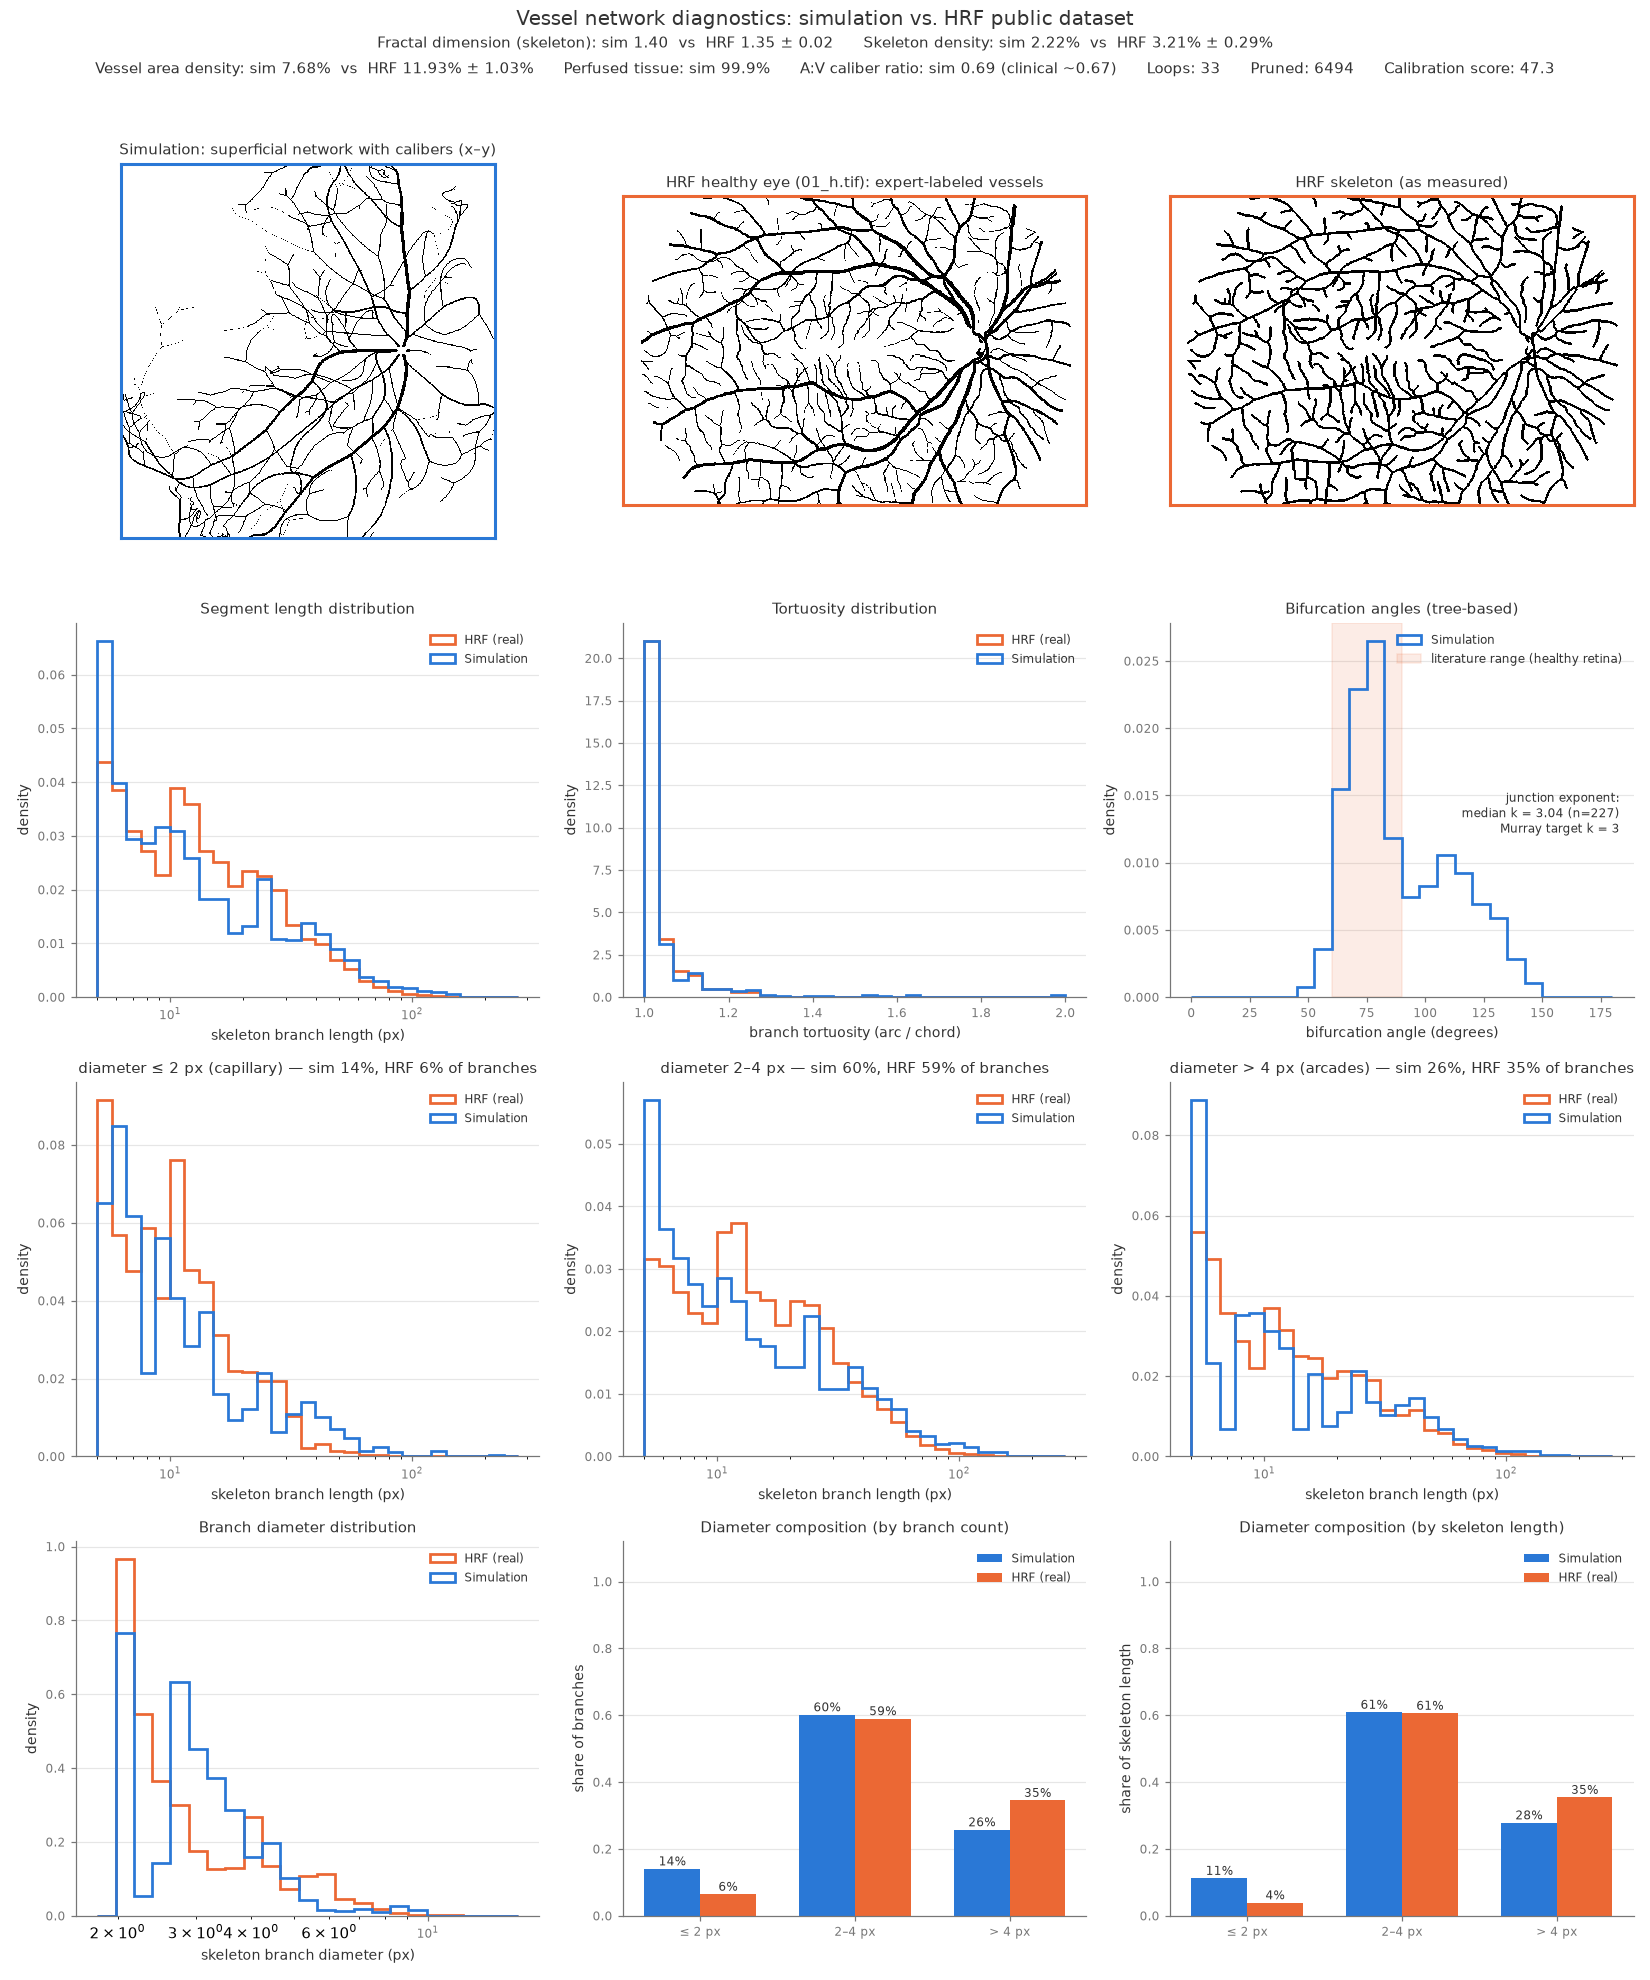
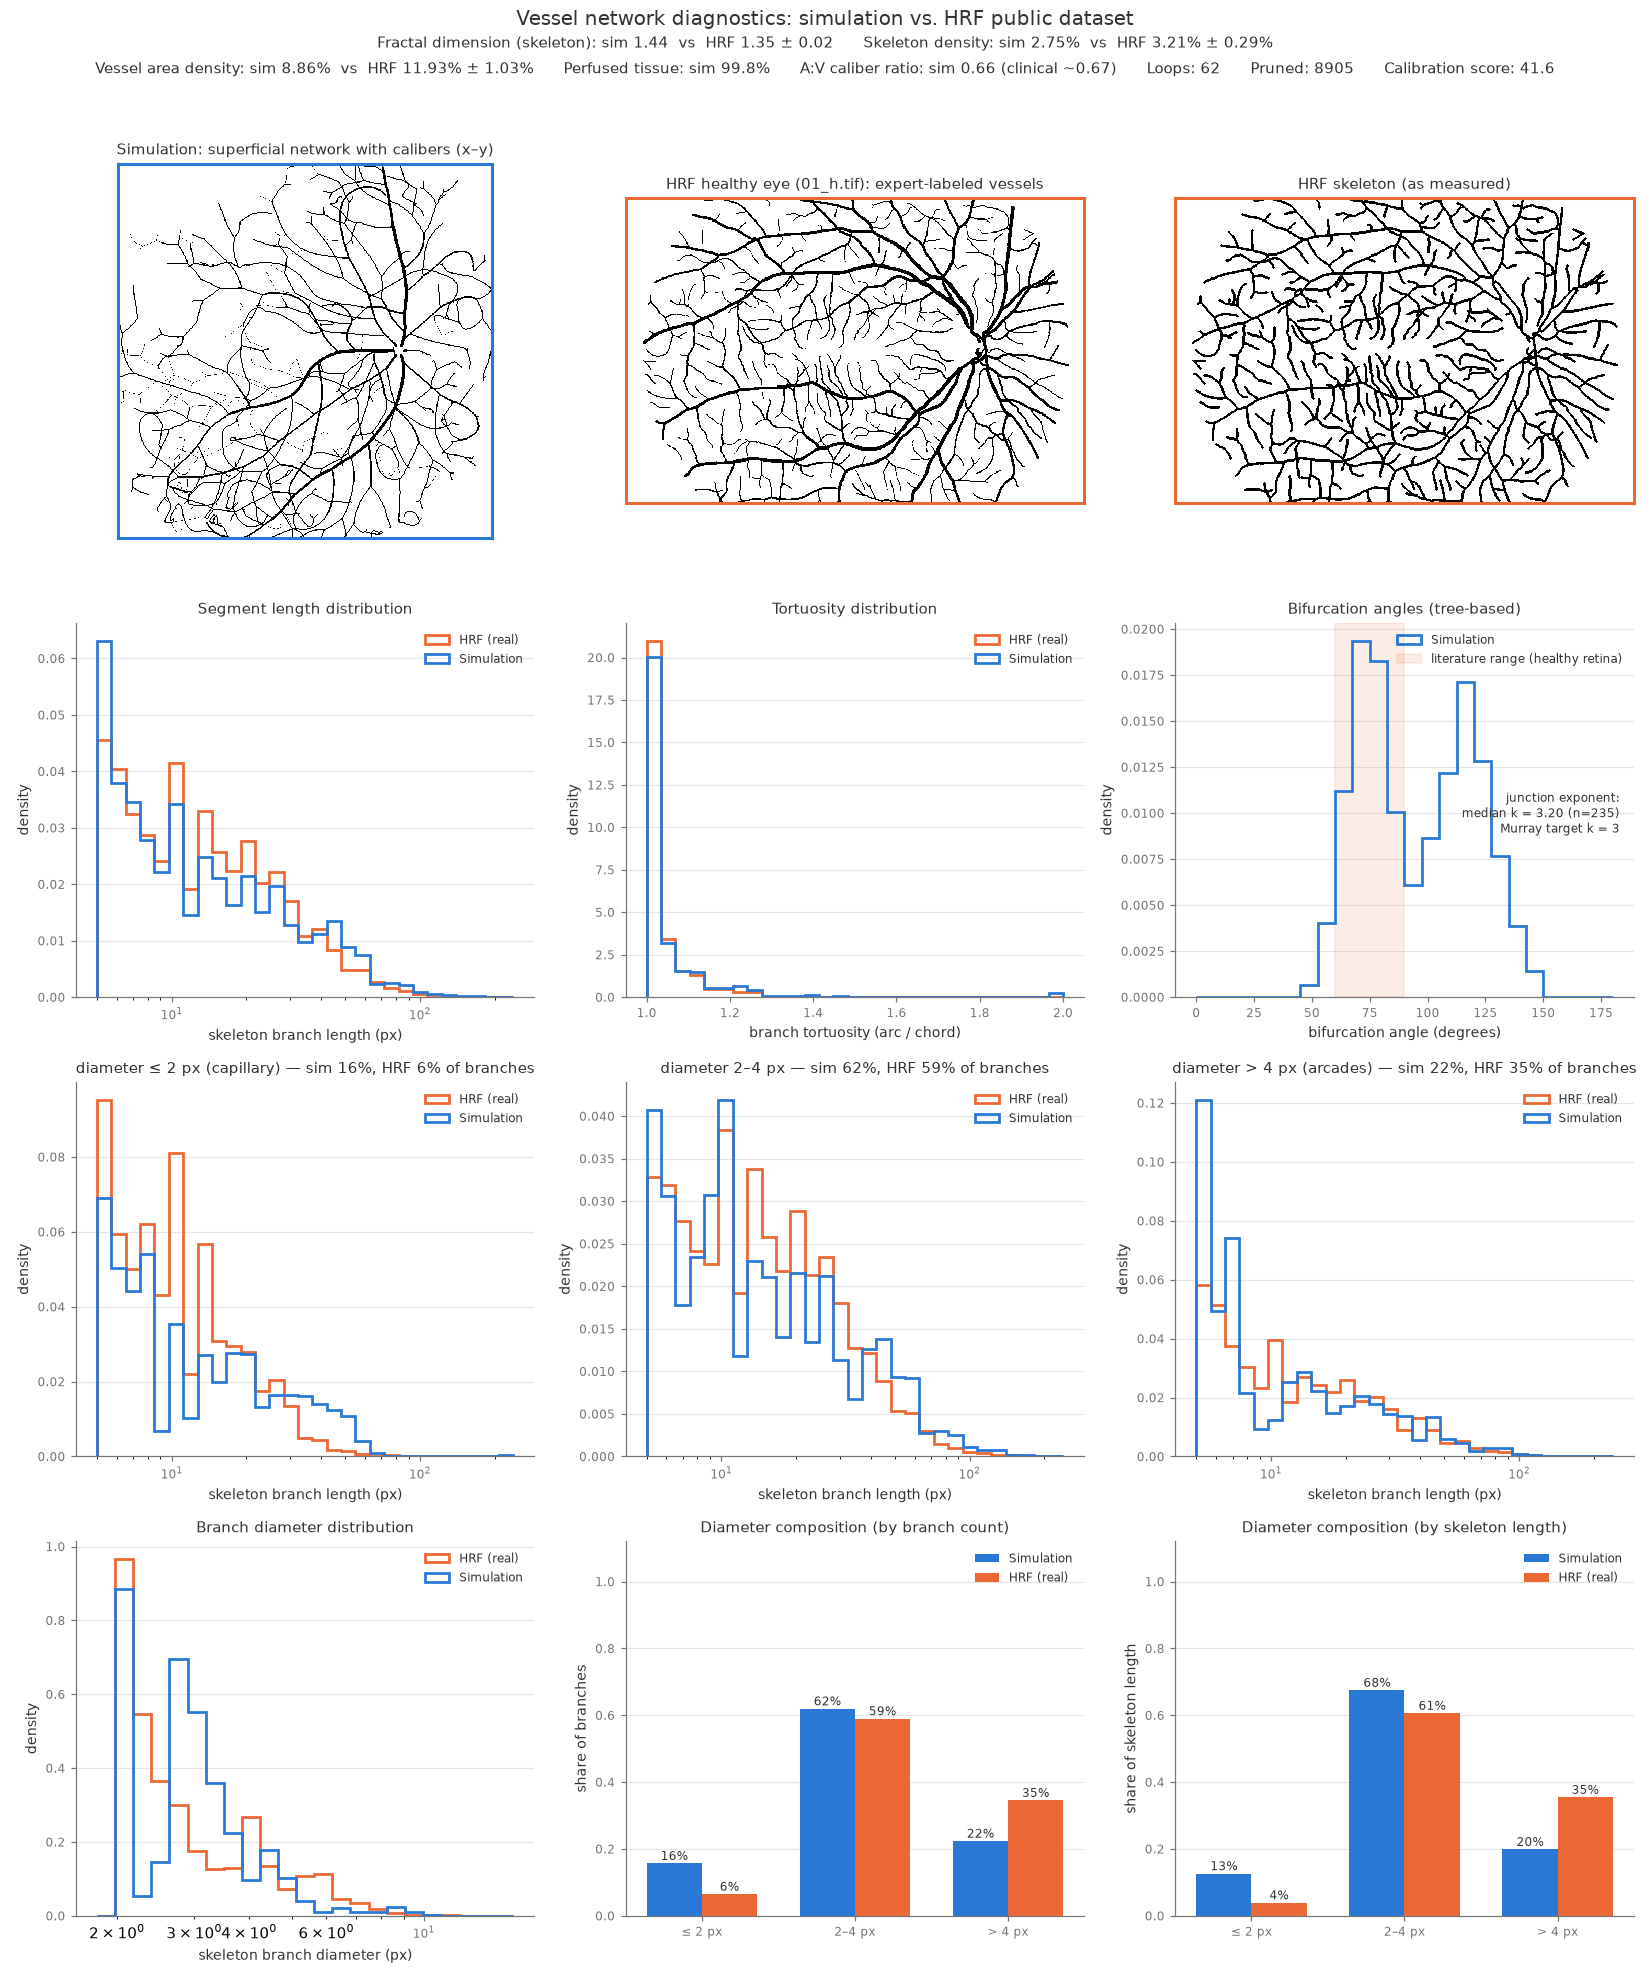
Add a multi-seed calibration objective and refit under it
vnv_calibrate gains --seeds A,B,C: the objective becomes the mean score
across the listed seeds (one simulation per seed per evaluation, with
per-seed breakdowns logged), so a config that collapses on any seed
loses to one that is merely mediocre everywhere -- the robustness the
single-seed fits kept missing, and the harness investment every earlier
calibration pass asked for.

Re-judging the comb-era candidates on seeds 123456/7/42 was clarifying:
every candidate has exactly one weak seed (the growth front either
catches a good trajectory or it doesn't), so single-seed fits had been
silently trading robustness for fit-seed polish. The best 3-seed mean
moves one knob -- plexus_layers.dive_probability 0.05 -> 0.04, keeping
slightly more of the capillary bed superficial -- improving the mean
114.1 -> 70.6 (per-seed 47/74/221 -> 42/121/49) and the fit seed
itself (47.3 -> 41.6). A stiffer extinction threshold, gentler tooth
emission, a wider capture radius, and their combinations all looked
good on one seed and lost on the mean.

Two new tests (63 total): the multi-seed objective is the
per-component mean, and a config that collapses on one seed loses to a
steady one. docs/vnv regenerated on the refit spec.

Claude-Session: https://claude.ai/code/session_01U4Qk2Zw65JYjTrDCWeGrpE

diff --git a/src/vivarium_eye_vessels/vnv/calibrate.py b/src/vivarium_eye_vessels/vnv/calibrate.py
@@ -19,7 +19,10 @@ the next knob, and repeat until the budget runs out or a full pass makes no
 improvement. Every evaluation (config, per-metric scores, total) is
 appended to the log as it happens, so partial runs are still informative.
 Runs are deterministic given the spec's seed; use ``--seed`` to check a
-candidate's robustness on other seeds.
+candidate's robustness on other seeds, or ``--seeds 123456,7,42`` to make
+the objective the mean score across several seeds (one simulation per seed
+per evaluation), so the fit cannot win by overfitting a lucky growth
+trajectory.
 """
 
 import copy
@@ -76,7 +79,7 @@ SEARCH_SPACE = {
     ("flow_remodeler", "adaptation_deadband"): [1.0, 2.0, 4.0],
     ("flow_remodeler", "max_radius"): [0.012, 0.016, 0.02],
     ("flow_remodeler", "max_adapted_radius"): [0.005, 0.006, 0.008],
-    ("plexus_layers", "dive_probability"): [0.035, 0.05, 0.07],
+    ("plexus_layers", "dive_probability"): [0.035, 0.04, 0.05],
     ("path_anastomosis", "capture_radius"): [0.035, 0.045, 0.055],
     ("frozen_repulsion", "spring_constant"): [1.25, 1.5, 1.75],
     ("perfusion_demand", "magnitude"): [0.25, 0.3, 0.35],
@@ -213,11 +216,32 @@ def coordinate_descent(evaluate, space: dict, base_overrides: dict, budget: int)
     return {"best": current, "best_score": best_score, "evaluations": evaluations}
 
 
+def combine_seed_scores(per_seed: dict) -> dict:
+    """Mean of each score component across seeds — the multi-seed objective.
+
+    Averaging the totals (rather than taking the best or median seed) makes
+    a config that collapses on any seed lose to one that is merely mediocre
+    everywhere, which is the robustness the single-seed fits kept missing.
+    """
+    combined: dict[str, float] = {}
+    for scores in per_seed.values():
+        for name, value in scores.items():
+            combined[name] = combined.get(name, 0.0) + value / len(per_seed)
+    return combined
+
+
 @click.command()
 @click.argument("model_spec", type=click.Path(exists=True))
 @click.option("--budget", default=24, show_default=True, help="Max simulation runs.")
 @click.option("--steps", default=800, show_default=True)
 @click.option("--seed", default=None, type=int, help="Override the spec's random seed.")
+@click.option(
+    "--seeds",
+    default=None,
+    help="Comma-separated random seeds; the objective becomes the MEAN score "
+    "across them (one simulation per seed per evaluation), so the fit "
+    "cannot win by overfitting a lucky growth trajectory.",
+)
 @click.option(
     "--log",
     "log_path",
@@ -232,7 +256,7 @@ def coordinate_descent(evaluate, space: dict, base_overrides: dict, budget: int)
     type=click.Path(),
     help="Scratch directory for candidate specs (not for committing).",
 )
-def main(model_spec: str, budget: int, steps: int, seed, log_path: str, workdir: str):
+def main(model_spec: str, budget: int, steps: int, seed, seeds, log_path: str, workdir: str):
     """Fit MODEL_SPEC's knobs against the HRF-derived calibration targets."""
     work = Path(workdir)
     work.mkdir(parents=True, exist_ok=True)
@@ -240,6 +264,7 @@ def main(model_spec: str, budget: int, steps: int, seed, log_path: str, workdir:
         base_spec = yaml.safe_load(f)
     if seed is not None:
         base_spec["configuration"]["randomness"]["random_seed"] = seed
+    seed_list = [int(s) for s in seeds.split(",")] if seeds else None
 
     click.echo("Computing HRF reference statistics (cached download)...")
     real_lengths = pooled_hrf_lengths()
@@ -254,17 +279,31 @@ def main(model_spec: str, budget: int, steps: int, seed, log_path: str, workdir:
             return cache[key]
         tag = f"{next(counter):03d}"
         start = time.time()
-        result = evaluate_spec(
-            apply_overrides(base_spec, overrides), steps, real_lengths, work, tag
-        )
-        total = result["scores"]["total"]
+        candidate = apply_overrides(base_spec, overrides)
+        if seed_list is None:
+            result = evaluate_spec(candidate, steps, real_lengths, work, tag)
+            entry = dict(result)
+            total = result["scores"]["total"]
+        else:
+            per_seed = {}
+            for s in seed_list:
+                candidate["configuration"]["randomness"]["random_seed"] = s
+                per_seed[s] = evaluate_spec(
+                    candidate, steps, real_lengths, work, f"{tag}_seed{s}"
+                )
+            combined = combine_seed_scores({s: r["scores"] for s, r in per_seed.items()})
+            entry = {
+                "scores": combined,
+                "per_seed": {str(s): r for s, r in per_seed.items()},
+            }
+            total = combined["total"]
         cache[key] = total
         log.append(
             {
                 "tag": tag,
                 "overrides": {f"{s}.{k}": v for (s, k), v in overrides.items()},
                 "minutes": round((time.time() - start) / 60, 1),
-                **result,
+                **entry,
             }
         )
         with open(log_path, "w") as f:

diff --git a/tests/test_calibrate.py b/tests/test_calibrate.py
@@ -6,6 +6,7 @@ from vivarium_eye_vessels.vnv.calibrate import (
     SEARCH_SPACE,
     TARGETS,
     calibration_score,
+    combine_seed_scores,
     coordinate_descent,
 )
 
@@ -49,6 +50,23 @@ def test_missing_or_nan_stats_never_win():
     scores = calibration_score(stats)
     assert scores["artery_vein_caliber_ratio"] == 25.0
     assert scores["fractal_dimension"] == 25.0
+
+
+def test_multiseed_objective_is_the_mean_across_seeds():
+    per_seed = {
+        7: {"skeleton_density": 1.0, "wide_share": 3.0, "total": 4.0},
+        42: {"skeleton_density": 5.0, "wide_share": 1.0, "total": 6.0},
+    }
+    combined = combine_seed_scores(per_seed)
+    np.testing.assert_allclose(combined["skeleton_density"], 3.0)
+    np.testing.assert_allclose(combined["wide_share"], 2.0)
+    np.testing.assert_allclose(combined["total"], 5.0)
+
+
+def test_multiseed_objective_punishes_a_single_collapsed_seed():
+    steady = combine_seed_scores({1: {"total": 60.0}, 2: {"total": 60.0}})
+    lucky_but_fragile = combine_seed_scores({1: {"total": 40.0}, 2: {"total": 1800.0}})
+    assert steady["total"] < lucky_but_fragile["total"]
 
 
 def test_coordinate_descent_finds_the_known_optimum():

diff --git a/docs/realism_roadmap.md b/docs/realism_roadmap.md
@@ -399,8 +399,27 @@ but tips one held-out seed into the crowding-extinction cascade, while
 weakest terms — the fundus-visible network is still sparser than HRF —
 and the operating point is sensitive: small pushes toward more
 superficial mass (lower dive probability, weaker repulsion) destabilize
-the growth front, which is more evidence for the multi-seed objective
-as the next harness investment.
+the growth front.
+
+*Fifth pass (multi-seed objective)*: the harness investment every
+earlier pass asked for. `vnv_calibrate --seeds 123456,7,42` makes the
+objective the *mean* score across the listed seeds (one simulation per
+seed per evaluation, per-seed breakdowns logged), so a config that
+collapses on any seed loses to one that is merely mediocre everywhere.
+Re-judging the comb-era candidates under it was clarifying: every
+candidate has exactly one weak seed (the growth front either catches a
+good trajectory or it doesn't), so single-seed fits had been silently
+trading robustness for fit-seed polish. The best 3-seed mean moved one
+knob — `dive_probability` 0.05 → 0.04, keeping slightly more of the
+capillary bed superficial — improving the mean 114.1 → 70.6 (per-seed
+47/74/221 → 42/121/49) and the fit seed itself. Candidates that looked
+tempting on one seed (a stiffer extinction threshold, gentler tooth
+emission, a wider capture radius, and their combinations) all lost on
+the mean. The remaining seed-to-seed spread (42 vs 121) is honest
+variance in whether the arcades colonize evenly; averaging over more
+seeds per evaluation (at proportional compute) or seed-averaged
+coordinate descent with a larger budget is the obvious continuation
+when compute allows.
 
 ## Validation & verification (V&V)
 

diff --git a/CHANGELOG.rst b/CHANGELOG.rst
@@ -1,3 +1,21 @@
+**v0.14.0 - 08/31/26**
+
+ - Multi-seed calibration objective, and a multi-seed refit
+
+   - ``vnv_calibrate`` gains ``--seeds A,B,C``: the objective becomes
+     the MEAN score across the listed seeds (one simulation per seed
+     per evaluation, per-seed breakdowns logged), so a config that
+     collapses on any seed loses to one that is merely mediocre
+     everywhere -- the robustness the single-seed fits kept missing
+   - The comb-era candidates were re-judged on seeds 123456/7/42:
+     every config has exactly one weak seed, and the single-seed
+     winner's weak seed was hiding real fragility. The best 3-seed
+     mean is ``plexus_layers.dive_probability`` 0.05 -> 0.04
+     (mean 114.1 -> 70.6; per-seed 47/74/221 -> 42/121/49), which
+     also improves the fit seed itself
+   - Two new tests: the multi-seed objective is the per-component mean,
+     and a config that collapses on one seed loses to a steady one
+
 **v0.13.0 - 08/31/26**
 
  - Comb-like side branching off the arcades (monopodial branching), with
